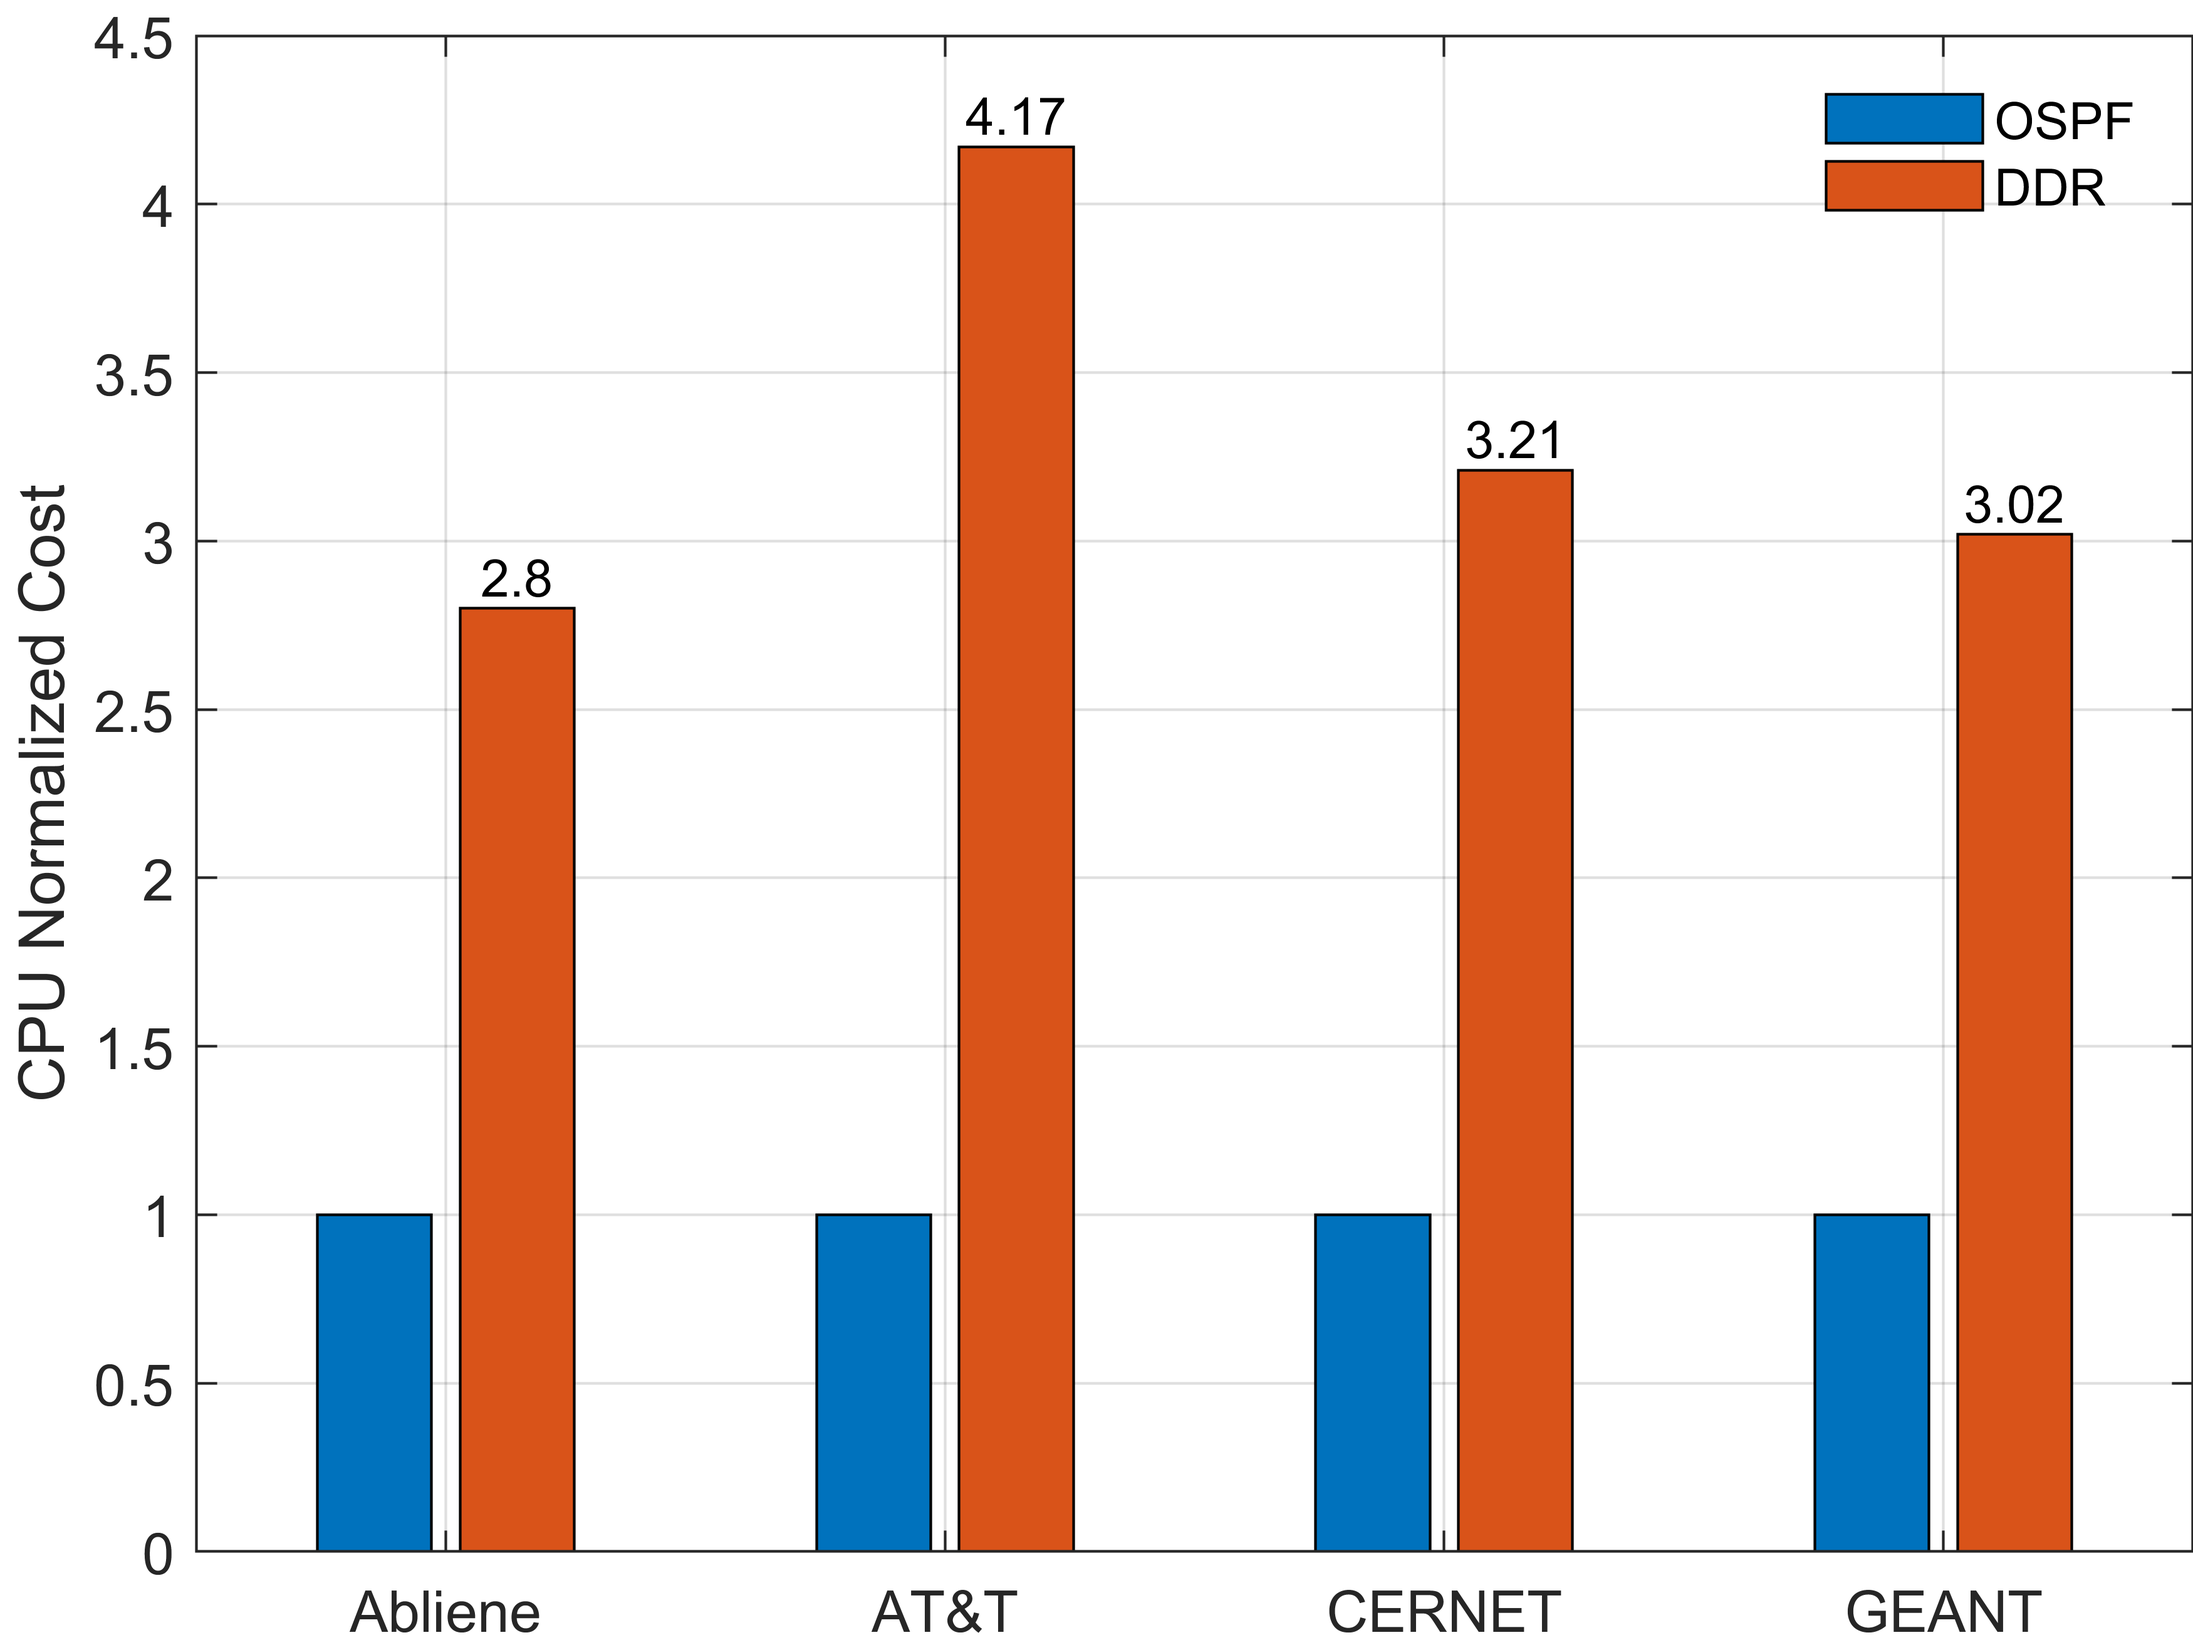
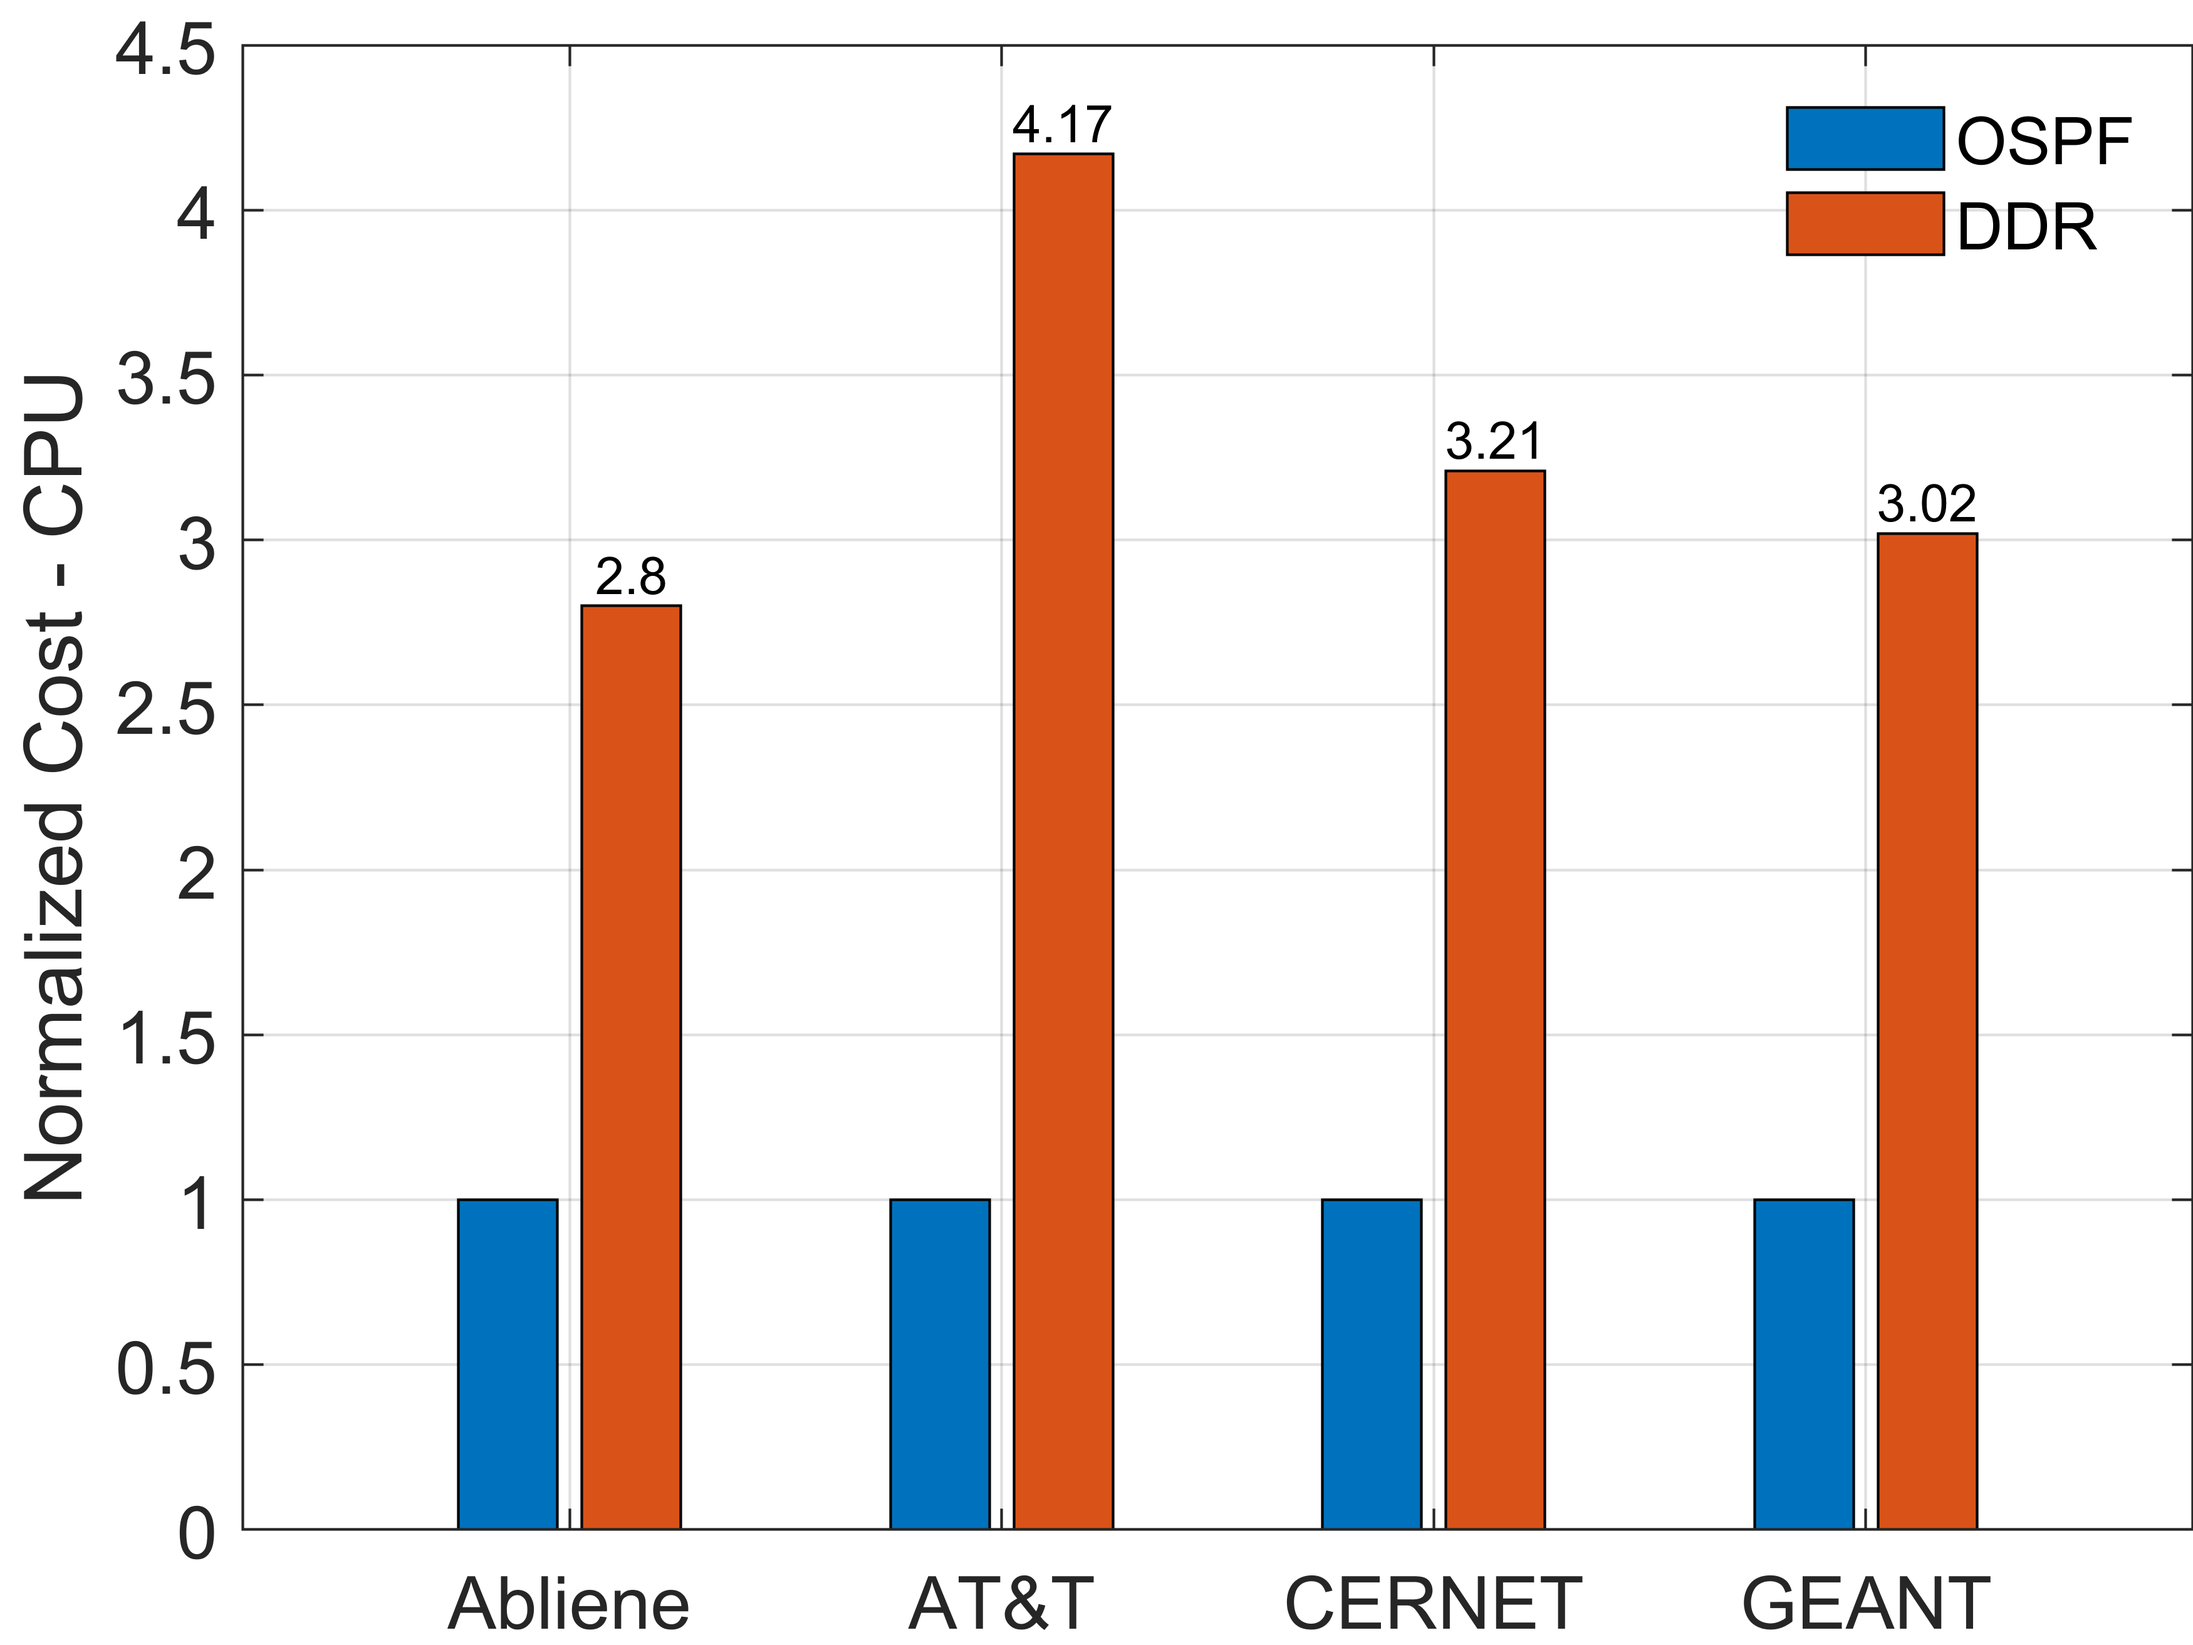
something for nothing

diff --git a/infocomm2024/EXP1/EPOCH1/result/main.m b/infocomm2024/EXP1/EPOCH1/result/main.m
@@ -1,6 +1,7 @@
 clc
 clear
 close all
+set(gca, 'FontSize',11);
 topos = ["abilene" "att" "cernet" "geant"];
 prots = ["OSPF" "KSHORT" "DGR" "DDR"];
 rate = [];
@@ -35,6 +36,8 @@ budget(501) = 6.8;
 fileoutput = fopen('data1.txt', 'w');
 formatSpec = '%f\t';
 
+
+
 for i = 1:50:800
     fprintf(fileoutput, formatSpec, rate(i:i+49));
     fprintf(fileoutput, '\n');
@@ -66,10 +69,11 @@ newbudget = newbudget' ;
 %     disp('A NOT = B');
 % end
 
-
+toponame = ["Abilene" "AT&T" "CERNET" "GEANT"];
 figure;
 for i = 1:length(topos)
-    subplot (1, length(topos),i)
+%     title(toponame(i));
+    subplot (1, length(topos),i);
     for k = 1:length(prots)
         first = (i-1)*200 + (k-1)*50 + 1;
         last = first + 49;
@@ -82,13 +86,14 @@ for i = 1:length(topos)
         grid on;
         hold on;
     end
+    title(toponame(i));
 end
 
 
 % legend('Orientation','horizontal');
-ldg = legend ("ECMP", "LFID", "DGR", "DDR", Location="north");
+ldg = legend ("ECMP", "LFID", "DGR", "DDR", Location="east");
 set(ldg,'Orientation','horizon')
 set(ldg,'Box','off');
-set(gca, 'FontSize',11);
+
 
 

diff --git a/infocomm2024/EXP1/EPOCH3/result/main.m b/infocomm2024/EXP1/EPOCH3/result/main.m
@@ -1,6 +1,7 @@
 clc
 clear
 close all
+set(gca, 'FontSize',11);
 topos = ["abilene" "att" "cernet" "geant"];
 prots = ["OSPF" "KSHORT" "DGR" "DDR"];
 rate = [];
@@ -63,9 +64,11 @@ newbudget = newbudget' ;
 % end
 
 
+toponame = ["Abilene" "AT&T" "CERNET" "GEANT"];
 figure;
 for i = 1:length(topos)
-    subplot (1, length(topos),i)
+%     title(toponame(i));
+    subplot (1, length(topos),i);
     for k = 1:length(prots)
         first = (i-1)*200 + (k-1)*50 + 1;
         last = first + 49;
@@ -78,11 +81,13 @@ for i = 1:length(topos)
         grid on;
         hold on;
     end
+    title(toponame(i));
 end
 
 % ylabel ('Arrival Rate (%)');
 ldg = legend ("ECMP", "LFID", "DGR", "DDR", Location="north");
 set(ldg,'Orientation','horizon')
 set(ldg,'Box','off');
-set(gca, 'FontSize',11);
+
+
 

diff --git a/infocomm2024/EXP1/EPOCH2/result/main.m b/infocomm2024/EXP1/EPOCH2/result/main.m
@@ -1,6 +1,7 @@
 clc
 clear
 close all
+set(gca, 'FontSize',11);
 topos = ["abilene" "att" "cernet" "geant"];
 prots = ["OSPF" "KSHORT" "DGR" "DDR"];
 rate = [];
@@ -63,9 +64,11 @@ newbudget = newbudget' ;
 % end
 
 
+toponame = ["Abilene" "AT&T" "CERNET" "GEANT"];
 figure;
 for i = 1:length(topos)
-    subplot (1, length(topos),i)
+%     title(toponame(i));
+    subplot (1, length(topos),i);
     for k = 1:length(prots)
         first = (i-1)*200 + (k-1)*50 + 1;
         last = first + 49;
@@ -78,11 +81,12 @@ for i = 1:length(topos)
         grid on;
         hold on;
     end
+    title(toponame(i));
 end
 
 % ylabel ('Arrival Rate (%)');
 ldg = legend ("ECMP", "LFID", "DGR", "DDR", Location="north");
 set(ldg,'Orientation','horizon')
 set(ldg,'Box','off');
-set(gca, 'FontSize',11);
+
 

diff --git a/infocomm2024/EXP2/cpu_time/storage.m b/infocomm2024/EXP2/cpu_time/storage.m
@@ -10,8 +10,8 @@ Y = [1 1.46; 1 2.45; 1 2.02; 1 1.82]
 b = bar (X, Y);
 hold on
 
-ylabel ('Storage Normalized Cost');
-ylim([0 2.7])
+ylabel ('Normalized Cost - Storage');
+ylim([0 3])
 
 
 % xtips1 = b(1).XEndPoints;
@@ -28,7 +28,7 @@ text(xtips2,ytips2,labels2,'HorizontalAlignment','center',...
 
 ldg = legend ("OSPF", "DDR");
 set(ldg,'Box','off');
-set(gca, 'FontSize',11);
+set(gca, 'FontSize',14);
 
 grid on;
 

diff --git a/infocomm2024/EXP2/cpu_time/cpu_cost.m b/infocomm2024/EXP2/cpu_time/cpu_cost.m
@@ -10,7 +10,7 @@ Y = [1 2.8; 1 4.17; 1 3.21; 1 3.02]
 b = bar (X, Y);
 hold on
 
-ylabel ('CPU Normalized Cost');
+ylabel ('Normalized Cost - CPU');
 ylim([0 4.5])
 
 % xtips1 = b(1).XEndPoints;
@@ -27,6 +27,6 @@ text(xtips2,ytips2,labels2,'HorizontalAlignment','center',...
 
 ldg = legend ("OSPF", "DDR");
 set(ldg,'Box','off');
-set(gca, 'FontSize',11);
+set(gca, 'FontSize',14);
 
 grid on;
